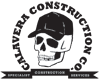
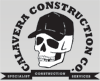
Stylesheet compression, deployment config

diff --git a/views/stylesheets/partials/bootstrap.scss b/views/stylesheets/partials/bootstrap.scss
@@ -1,16 +1,3 @@
-/*!
- * Bootstrap v1.3.0
- *
- * Copyright 2011 Twitter, Inc
- * Licensed under the Apache License v2.0
- * http://www.apache.org/licenses/LICENSE-2.0
- *
- * Designed and built with all the love in the world @twitter by @mdo and @fat.
- * Converted to SASS by Thomas McDonald
- *
- * Date: Fri Sep 16 11:24:41 PDT 2011
- */
-
 @import "bootstrap/reset";
 
 @import "bootstrap/variables";

diff --git a/views/stylesheets/screen.scss b/views/stylesheets/screen.scss
@@ -14,8 +14,8 @@ p.intro {
   img {
     float: right;
     margin-right: 10px;
-    height: 30px;
-    margin-top: 5px;
+    height: 36px;
+    margin-top: 1px;
   }
 }
 .dropdown-menu {

diff --git a/app.rb b/app.rb
@@ -42,7 +42,7 @@ class Calavera < Sinatra::Base
   
   get '/stylesheets/:name.css' do
     content_type 'text/css', :charset => 'utf-8'
-    scss(:"stylesheets/#{params[:name]}")
+    scss(:"stylesheets/#{params[:name]}", Compass.sass_engine_options)
   end
 
 end
